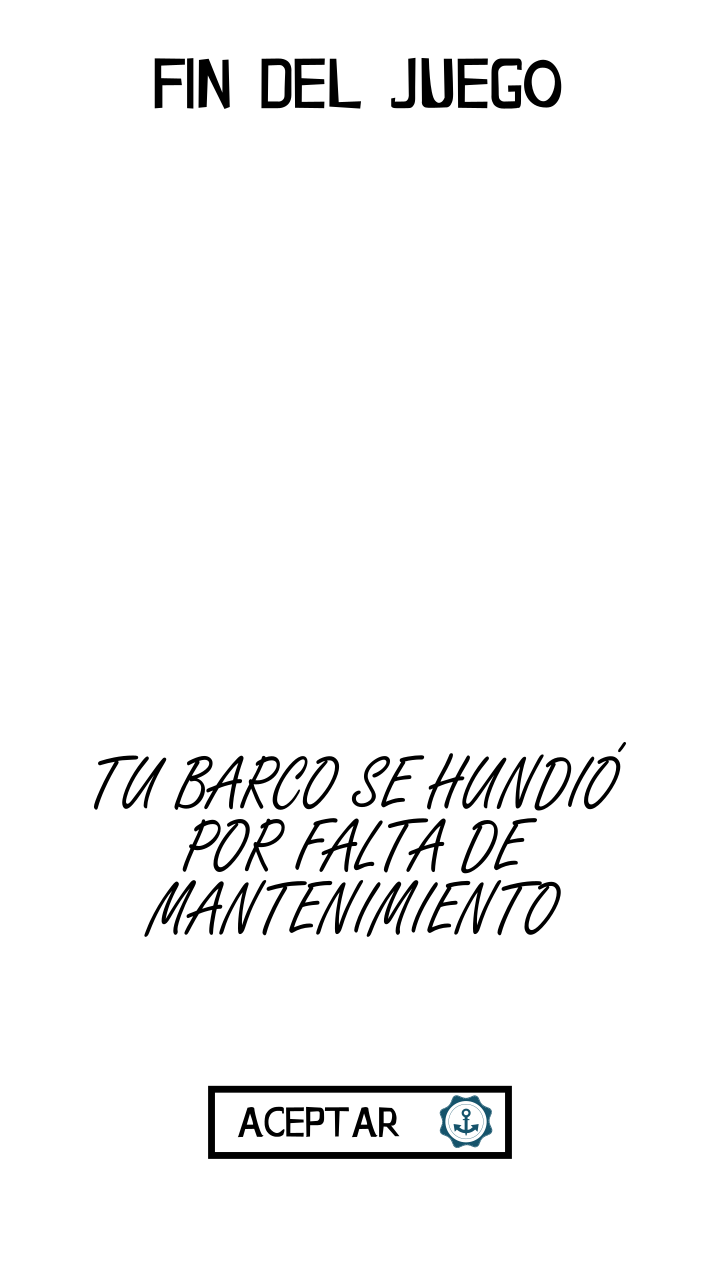
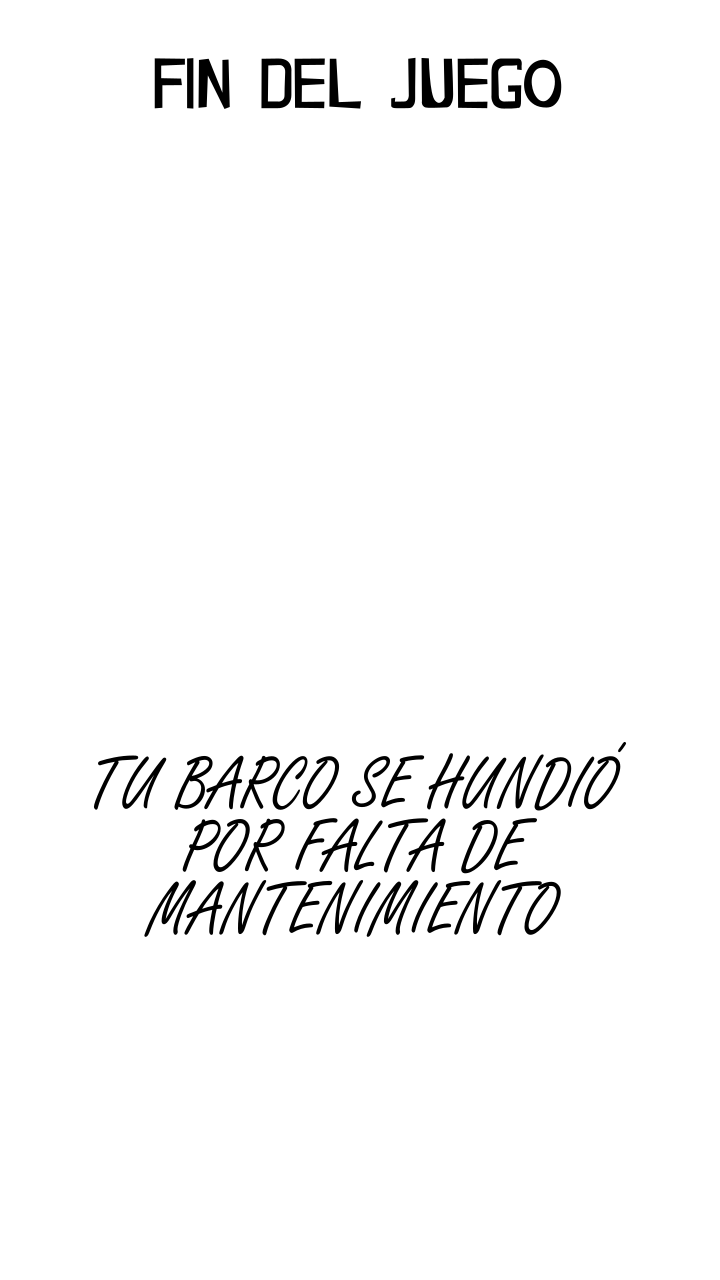
Arreglo bugs y actualizo phaser

Changed region(s): [[0.275, 0.8438, 0.7333, 0.9062]]

diff --git a/js/scenes/gameEnd.ts b/js/scenes/gameEnd.ts
@@ -1,5 +1,7 @@
 class gameEnd extends Phaser.Scene{
 
+    private button:Phaser.GameObjects.Sprite;
+
     create(boat:cBoat) {
 
         this.init();
@@ -10,6 +12,33 @@ class gameEnd extends Phaser.Scene{
         var back = this.add.image(0, 0, 'backGameEnd')
         back.setOrigin(0);
 
+        this.initScene()
+
+    }
+
+    private initScene() {
+        
+        //lets create the  button to restart the game
+        this.button =  this.add.sprite(540, 1200, 'helpNextButton').setInteractive();
+        
+        this.button.on('pointerdown', this.buttonDown, this);
+
+        this.button.on('pointerout', this.buttonOut, this);
+
+        this.button.on('pointerup', this.restartGame, this);
+
+    }
+
+    private buttonDown() {
+        this.button.setTint(0x15536b);
+    }
+
+    private buttonOut() {
+        this.button.clearTint();
+    }
+
+    private restartGame() {
+        this.scene.start('startMenu');
     }
 
 

diff --git a/js/scenes/gameEnd.js b/js/scenes/gameEnd.js
@@ -14,6 +14,23 @@ var gameEnd = (function (_super) {
     gameEnd.prototype.init = function () {
         var back = this.add.image(0, 0, 'backGameEnd');
         back.setOrigin(0);
+        this.initScene();
+    };
+    gameEnd.prototype.initScene = function () {
+        //lets create the  button to restart the game
+        this.button = this.add.sprite(540, 1200, 'helpNextButton').setInteractive();
+        this.button.on('pointerdown', this.buttonDown, this);
+        this.button.on('pointerout', this.buttonOut, this);
+        this.button.on('pointerup', this.restartGame, this);
+    };
+    gameEnd.prototype.buttonDown = function () {
+        this.button.setTint(0x15536b);
+    };
+    gameEnd.prototype.buttonOut = function () {
+        this.button.clearTint();
+    };
+    gameEnd.prototype.restartGame = function () {
+        this.scene.start('startMenu');
     };
     return gameEnd;
 }(Phaser.Scene));

diff --git a/js/controler/cBoat.js b/js/controler/cBoat.js
@@ -14,7 +14,7 @@ var cBoat = (function () {
         this.leaderSystem = 100; //decorado
         this.cleanSystem = 100; //Sistema Limpieza
         this.foodSystem = 100; //Sistema Comida
-        this.mantSystem = 5; //Protección
+        this.mantSystem = 100; //Protección
         this.crewman = 16; //tripulantes
         this.gold = 300; //oro
         this.kg_capacity = 200; //capacidad barco

diff --git a/js/controler/cBoat.ts b/js/controler/cBoat.ts
@@ -16,7 +16,7 @@ class cBoat {
     public leaderSystem = 100 //decorado
     public cleanSystem = 100//Sistema Limpieza
     public foodSystem = 100//Sistema Comida
-    public mantSystem = 5//Protección
+    public mantSystem = 100//Protección
     public crewman = 16//tripulantes
     public gold = 300//oro
     public kg_capacity = 200 //capacidad barco
